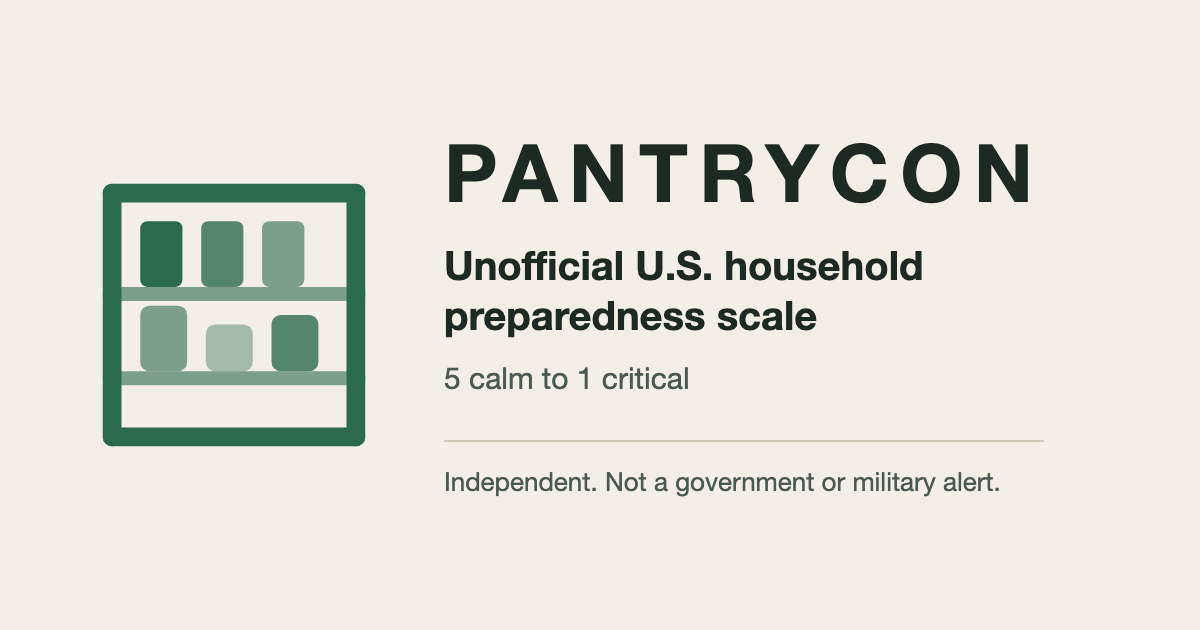
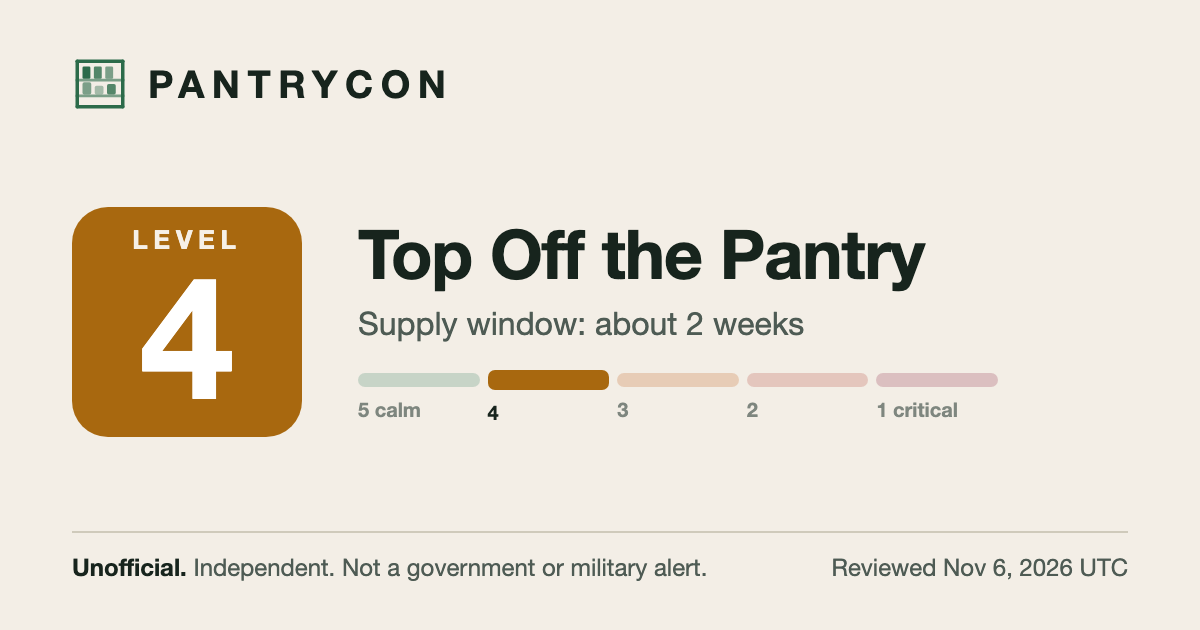
Generate OG share image from the current PANTRYCON level (#3)
Add scripts/og.mjs to draw og-image.png from assessment.json, stamp og:image
with the review time, and test that the image matches level and reviewedAt.

diff --git a/index.html b/index.html
@@ -14,10 +14,10 @@
   <meta property="og:title" content="PANTRYCON · Unofficial U.S. household preparedness assessment">
   <meta property="og:description" content="PANTRYCON is an independent, unofficial 5-to-1 household preparedness scale for the United States. It is not a government or military alert.">
   <meta property="og:url" content="https://pantrycon.vercel.app/">
-  <meta property="og:image" content="https://pantrycon.vercel.app/og-image.png">
+  <meta property="og:image" content="https://pantrycon.vercel.app/og-image.png?v=20261106T201200Z">
   <meta property="og:image:width" content="1200">
   <meta property="og:image:height" content="630">
-  <meta property="og:image:alt" content="PANTRYCON: an unofficial U.S. household preparedness scale from 5 calm to 1 critical, shown beside a stocked pantry shelf.">
+  <meta property="og:image:alt" content="PANTRYCON: the unofficial U.S. household preparedness level on a 5 calm to 1 critical scale, with its band name, supply window, and the date it was last reviewed.">
   <meta name="twitter:card" content="summary_large_image">
   <link rel="icon" href="favicon.svg" type="image/svg+xml">
   <link rel="apple-touch-icon" href="apple-touch-icon.png">

diff --git a/BAKE.md b/BAKE.md
@@ -6,11 +6,21 @@ This file is the maintenance contract. The public page and the household dashboa
 
 Edit only [`assessment.json`](assessment.json) in this repository. Set `reviewedAt` to the actual review time in UTC, even when the level does not change. If `reviewedAt` is older than `staleAfterHours` (36), both surfaces mark the snapshot stale and keep showing the last reviewed level.
 
+Then redraw the share image, because link previews show the level and the review date:
+
+```bash
+node scripts/og.mjs
+```
+
+This rewrites `og-image.png` from `assessment.json` and updates the `?v=` stamp on `og:image` in `index.html`. Run it after every edit to `assessment.json`, including a `reviewedAt`-only review. It needs Google Chrome or Chromium on the machine (set `CHROME=/path/to/chrome` if it is not in a standard place). The image records its level and `reviewedAt` inside the PNG, and `node --test` fails if either is out of date. Previews that were already shared can stay cached by other sites for a while.
+
 Before committing:
 
 ```bash
 node --test
 ```
+
+Commit `assessment.json`, `og-image.png`, and `index.html` together.
 
 Push to `main`. Do not force-push. The household dashboard fetches:
 

diff --git a/AGENTS.md b/AGENTS.md
@@ -29,6 +29,7 @@ Before editing anything, read [`BAKE.md`](BAKE.md) (the maintenance and data con
 ## Current mechanisms
 
 - Updates are made by editing `assessment.json` and committing it to `main`, as described in `BAKE.md`. This repository has no scheduled job or workflow that does that. Do not describe the daily review as automated.
+- `og-image.png` is generated from `assessment.json` by `node scripts/og.mjs` (needs local Chrome). Never hand-edit it or the `?v=` stamp on `og:image` in `index.html`. After any change to `level` or `reviewedAt`, rerun the script and commit all three files; `node --test` fails if the image is out of date. The script is a local tool, not a build step.
 - Vercel is configured through `vercel.json` (CORS for `/assessment.json`, `nosniff`, referrer policy) and the import settings in `README.md`: framework Other, blank build, install, and output commands, production branch `main`. Do not add a build or dependencies without a reason.
 
 ## Before you finish

diff --git a/README.md b/README.md
@@ -32,4 +32,4 @@ After the deployment URL exists, set `links.publicSite` in `assessment.json` to 
 
 ## Maintaining the level
 
-Update instructions for the daily review live in [`BAKE.md`](BAKE.md). Change the level by editing `assessment.json` and committing it. Do not bake a second copy into another project.
+Update instructions for the daily review live in [`BAKE.md`](BAKE.md). Change the level by editing `assessment.json`, running `node scripts/og.mjs` to redraw the share image, and committing both along with `index.html`. Do not bake a second copy into another project.
